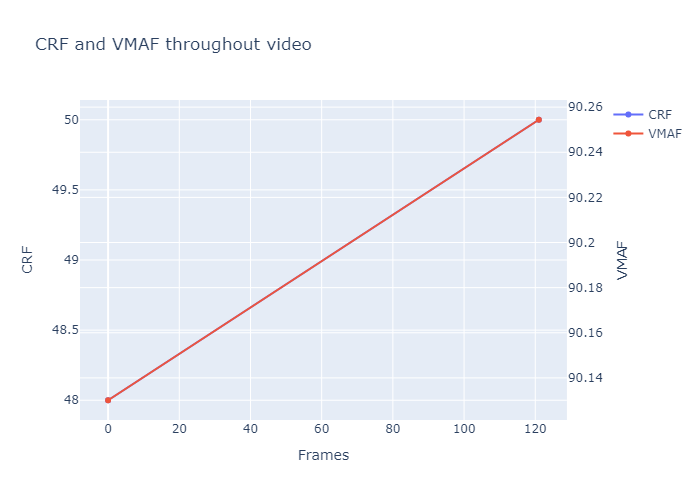
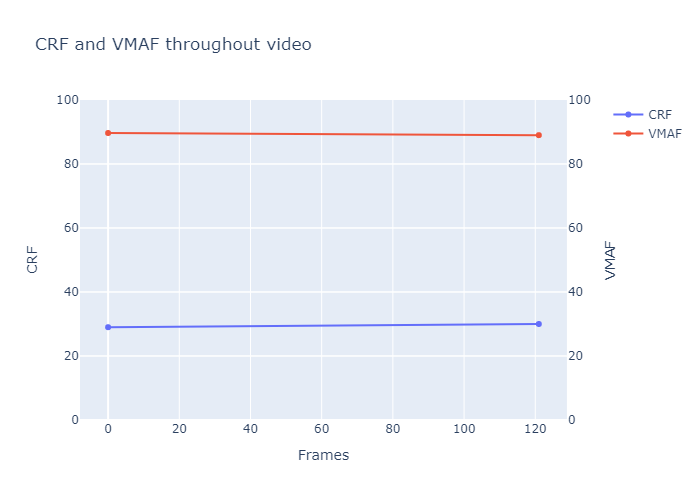
corrected the audio recombination, so that it works always Also made the generated graph have a range of 0..=100, which isn't ideal for CR (though ideal for VMAF), so needs some form of work. Though it's okay...

diff --git a/src/target_video_quality.py b/src/target_video_quality.py
@@ -103,28 +103,34 @@ class Compress_video:
             output_filename_with_extension,
         )
 
-        if recombine_audio_from_input_file:
-            _ = os.system(
-                " ".join(
-                    [
-                        ffmpeg_path,
-                        f"-i {output_filename_with_extension}",
-                        f"-i {input_filename_with_extension}",
-                        "-c copy",
-                        "-map 0:v:1",
-                        "-map 1:a:1",
-                        f"TEMP-{output_filename_with_extension}",
-                    ]
-                )
-            )
-            os.remove(output_filename_with_extension)
-            os.rename(
-                f"TEMP-{output_filename_with_extension}", output_filename_with_extension
-            )
-
         if delete_tempoary_files:
             for x in range(len(video_scenes)):
                 os.remove(f"{x}-{input_filename_with_extension}")
+
+        if recombine_audio_from_input_file:
+            if ffmpeg_heuristics.ffprobe_information.check_contains_any_audio(
+                input_filename_with_extension, "ffprobe"
+            ):
+                _ = os.system(
+                    " ".join(
+                        [
+                            ffmpeg_path,
+                            f"-i {output_filename_with_extension}",
+                            f"-i {input_filename_with_extension}",
+                            "-c copy",
+                            "-map 0:v:1",
+                            "-map 1:a:1",
+                            f"TEMP-{output_filename_with_extension}",
+                        ]
+                    )
+                )
+                os.remove(output_filename_with_extension)
+                os.rename(
+                    f"TEMP-{output_filename_with_extension}",
+                    output_filename_with_extension,
+                )
+            else:
+                print("NOTICE: INPUT FILE CONTAINED NO AUDIO!! (no audio to transfer)")
 
     @staticmethod
     def _compress_video_part(

diff --git a/src/main_program.py b/src/main_program.py
@@ -9,18 +9,21 @@ import target_video_quality
 def main() -> None:
     # check if FFMPEG is installed
 
-    video_path: str = "output-small.mkv"
+    video_path: str = "input_small.mkv"
 
     target_video_quality.Compress_video.compress_video(
         input_filename_with_extension=video_path,
-        output_filename_with_extension="OUTPUT FILE.mkv",
-        # ffmpeg_codec_information=ffmpeg.H264(preset="ultrafast"), # 'fast' prototyping
-        ffmpeg_codec_information=ffmpeg.SVTAV1(preset=8),
+        output_filename_with_extension="OUTPUT_FILE.mkv",
+        ffmpeg_codec_information=ffmpeg.H264(
+            preset="ultrafast", faststart=False
+        ),  # 'fast' prototyping
+        # ffmpeg_codec_information=ffmpeg.SVTAV1(preset=8),
         heuristic_type=ffmpeg_heuristics.VMAF(target_score=90),
         crop_black_bars=False,
-        extra_current_crf_itterate_amount=1,  # probably speeds up by a very small amount
+        extra_current_crf_itterate_amount=1,  # probably speeds up by a **very small** amount
         scene_detection_threshold=40,  # 27
-        recombine_audio_from_input_file=True,
+        recombine_audio_from_input_file=False,  # need to detect if source has audio
+        delete_tempoary_files=True,
     )
 
 

diff --git a/src/graph_generate.py b/src/graph_generate.py
@@ -61,7 +61,7 @@ class linegraph_image:
         name: str,
         mode: Literal["lines", "lines+markers"],
         on_left_right_side: Literal["left", "right"],
-        # testing_y_axis_range: None | dict[str, list[int]] = None,
+        # testing_y_axis_range: None | tuple[int, int] = None,
     ) -> None:
         _ = self.fig.add_trace(
             go.Scatter(
@@ -72,8 +72,12 @@ class linegraph_image:
             ),
             secondary_y=(on_left_right_side == "right"),
         )
+
+        # changing range of y axis: https://stackoverflow.com/questions/55704058/set-the-range-of-the-y-axis-in-plotly
         _ = self.fig.update_yaxes(
-            title_text=name, secondary_y=(on_left_right_side == "right")
+            title_text=name,
+            secondary_y=(on_left_right_side == "right"),
+            range=[0, 100],  # check if works
         )
 
     def __exit__(

diff --git a/src/ffmpeg_heuristics.py b/src/ffmpeg_heuristics.py
@@ -133,5 +133,21 @@ def crop_black_bars(source_video_path: str) -> str:
     return data.rsplit(maxsplit=1)[-1]
 
 
+class ffprobe_information:
+    @staticmethod
+    def check_contains_any_audio(
+        input_filename_with_extension: str, ffprobe_path: str
+    ) -> bool:
+        """Determines if the input file contains audio (is this robust??)"""
+        ffprobe_output = subprocess.getoutput(
+            f"{ffprobe_path} {input_filename_with_extension}"
+        )
+        return any(
+            True
+            for x in ffprobe_output.splitlines()
+            if x.strip().startswith("Stream") and "Audio" in x
+        )
+
+
 # TESTS:
 # print(VMAF(target_score=90).overall("test.mp4", "lowquality.mp4"))
